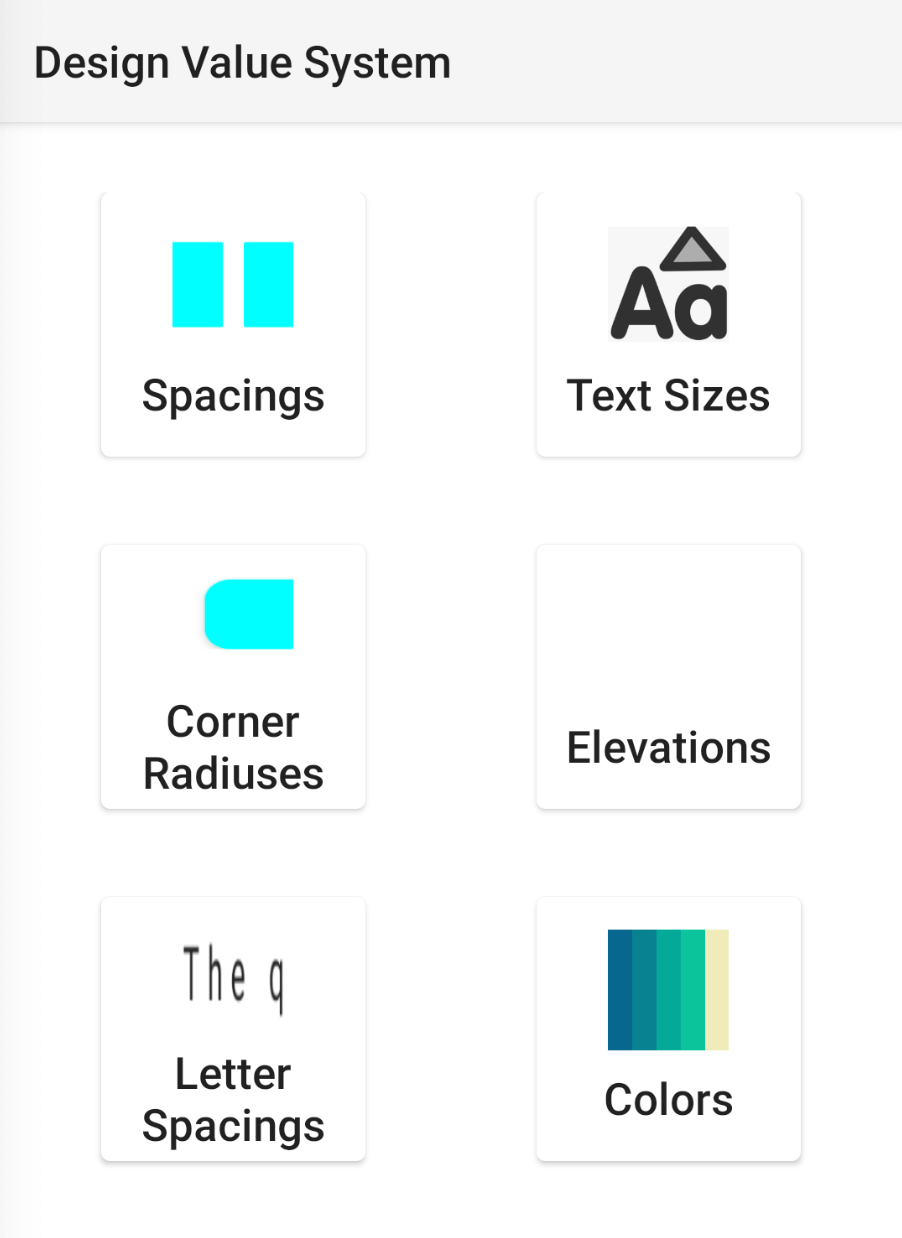
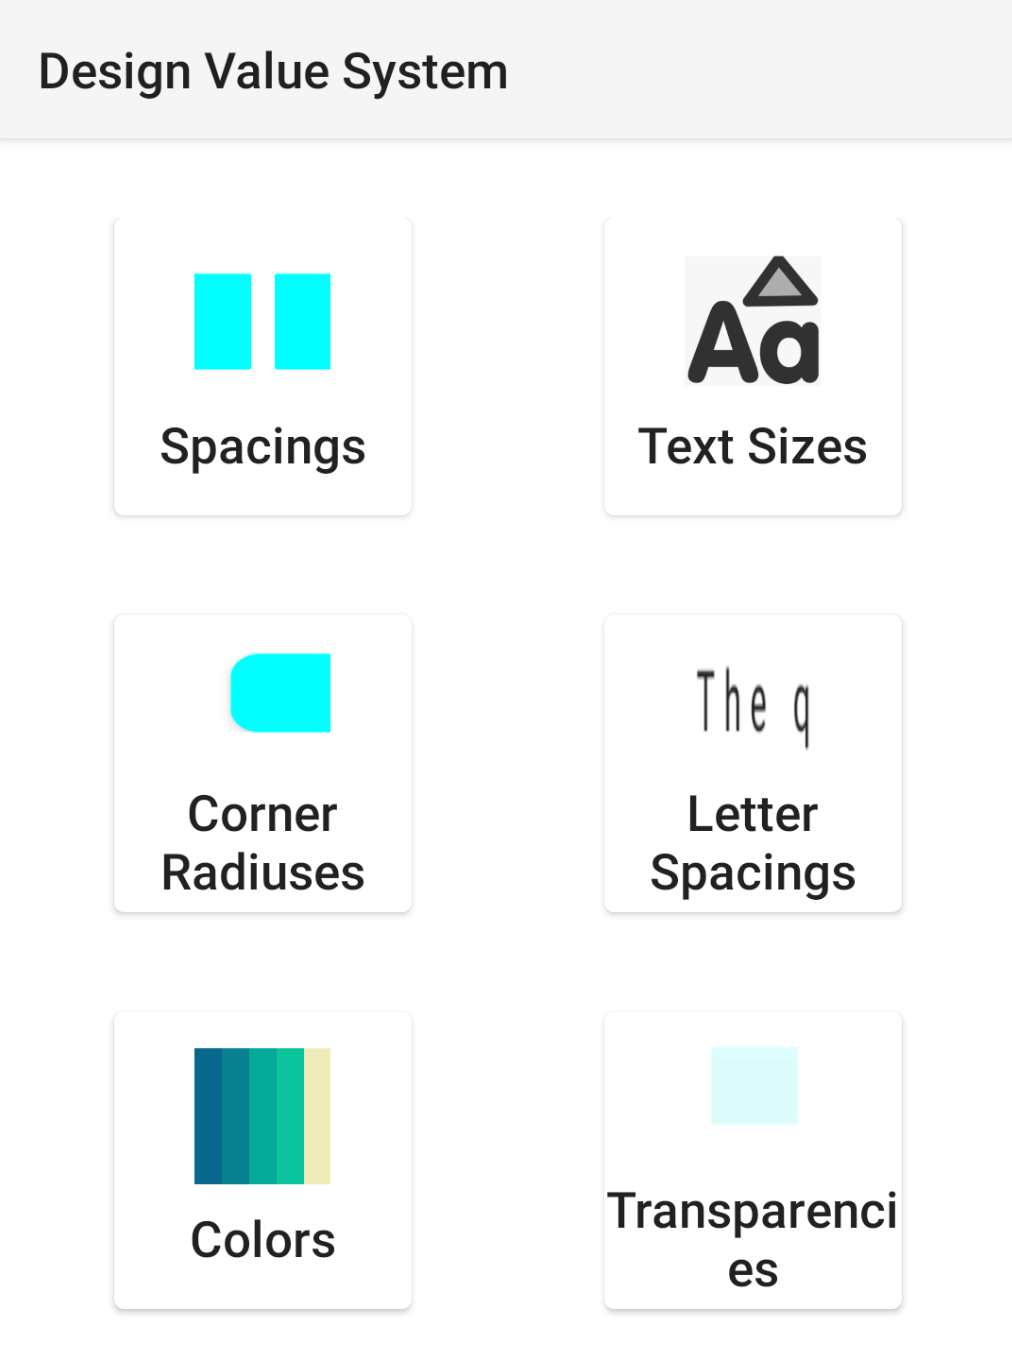
remove elevations

diff --git a/design-values-system-android/app/src/main/java/com/seljabali/designvaluesystem/ui/landingpage/LandingPageFragment.kt b/design-values-system-android/app/src/main/java/com/seljabali/designvaluesystem/ui/landingpage/LandingPageFragment.kt
@@ -55,7 +55,7 @@ class LandingPageFragment : BaseFragment() {
             LandingPageItems.SPACING -> homeActivity.showFragment(SpacingsShowCasingFragment.newInstance(), SpacingsShowCasingFragment.TAG)
             LandingPageItems.TEXT_SIZES -> homeActivity.showFragment(TextSizeTypeFragment.newInstance(), TextSizeTypeFragment.TAG)
             LandingPageItems.CORNER_RADIUS -> homeActivity.showFragment(CornerRadiusFragment.newInstance(), CornerRadiusFragment.TAG)
-            LandingPageItems.ELEVATIONS -> homeActivity.showFragment(ElevationsFragment.newInstance(), ElevationsFragment.TAG)
+//            LandingPageItems.ELEVATIONS -> homeActivity.showFragment(ElevationsFragment.newInstance(), ElevationsFragment.TAG)
             LandingPageItems.LETTER_SPACINGS -> homeActivity.showFragment(LetterSpacingsFragment.newInstance(), LetterSpacingsFragment.TAG)
             LandingPageItems.COLORS -> homeActivity.showFragment(ColorsFragment.newInstance(), ColorsFragment.TAG)
             LandingPageItems.TRANSPARENCIES -> homeActivity.showFragment(TransparencyFragment.newInstance(), TransparencyFragment.TAG)

diff --git a/design-values-system-android/app/src/main/java/com/seljabali/designvaluesystem/ui/landingpage/LandingPageItems.kt b/design-values-system-android/app/src/main/java/com/seljabali/designvaluesystem/ui/landingpage/LandingPageItems.kt
@@ -11,7 +11,7 @@ enum class LandingPageItems(@StringRes override val titleStringId: Int,
     SPACING(R.string.spacings, R.mipmap.spacing),
     TEXT_SIZES(R.string.text_sizes, R.mipmap.text_size),
     CORNER_RADIUS(R.string.corner_radiuses, R.mipmap.corner_radius),
-    ELEVATIONS(R.string.elevations, android.R.color.transparent),
+//    ELEVATIONS(R.string.elevations, android.R.color.transparent),
     LETTER_SPACINGS(R.string.letter_spacings, R.mipmap.letter_spacing),
     COLORS(R.string.colors, R.mipmap.colors),
     TRANSPARENCIES(R.string.transparencies, R.mipmap.transparency),
